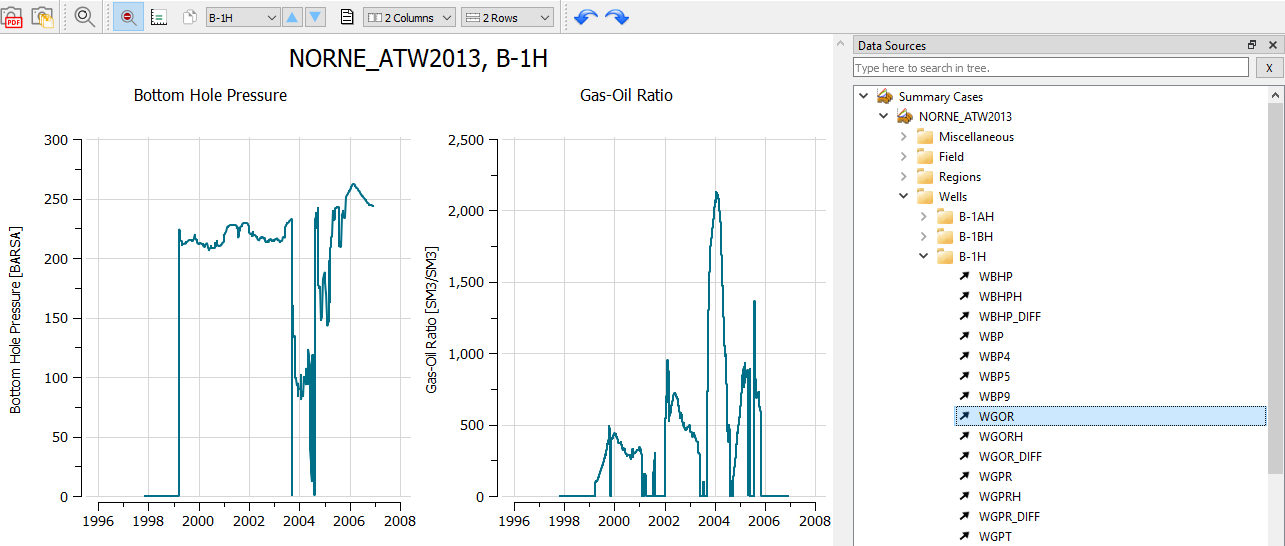
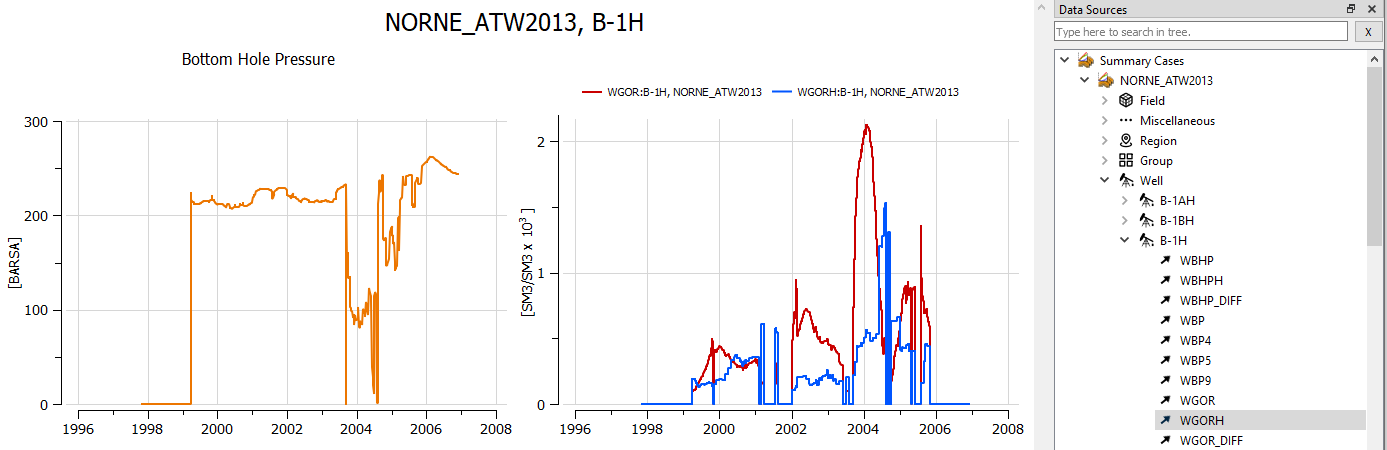
Summary Plots: update of screenshots etc

diff --git a/content/plot-window/SummaryPlots.md b/content/plot-window/SummaryPlots.md
@@ -18,13 +18,16 @@ Summary plots are displayed on screen by maximum four rows by four columns of pl
 In the example above, ResInsight displays two columns and two rows of plots, each plot comprising a single curve. However, a plot may contain an arbitrary number of curves.
 As shown in the screenshot above, essential helpers for setup of Summary Plots are:
 
-- *Plots*: overview of established plots and their components
-- [*Data Sources*]({{< relref "summaryplotdatasources" >}}):
+- **Plots**: overview of established plots and their components
+- **Property Editor**: settings for titles, legends, layout, axes, and appearance
+- [**Data Sources**]({{< relref "summaryplotdatasources" >}}):
 searching and sourcing data from case, field, regions, wells, groups, or ensemble
-- [*Plot Manager*]({{< relref "summaryplotmanager" >}}):
+- [**Templates**]({{< relref "summaryplottemplate" >}}):
+overview, management and use of templates for summary plotting
+- [**Plot Manager**]({{< relref "summaryplotmanager" >}}):
 powerful text-based selection of vectors for summary plotting
-- *Property Editor*: settings for titles, legends, layout, axes etc
 
+Essential actions are presented as controls in the toolbar to increase productivity and ease of use.
 
 
 ## Creating Summary Plots
@@ -36,7 +39,9 @@ Having imported [Eclipse Summary Data]({{< relref "eclipsesummarydata" >}}), [**
 - *Right-click* selected vector(s) and select **New Summary Plot** 
 - *Drag & Drop* additional vector(s) to append curves into an existing plot or vacant plot area
 
-Creating a new summary plot of *WBHP* of *Well B-1H* and subsequent *Drag & Drop* of WGOR produces the following. 
+Creating a new summary plot of *WBHP* of *Well B-1H* and subsequent *Drag & Drop* of WGOR and WGORH into the same subplot produces the following. 
+ResInsight will automatically make new axes if necessary. If units are the same as for WGOR and WGORH, a new axis is unneccessary.
+
 
 ![]({{< relref "" >}}images/plot-window/SummaryPlots_WBHP_WGOR.png)
 
@@ -58,7 +63,7 @@ Using [**Data Sources**]({{< relref "summaryplotdatasources" >}}) enables effici
 
 ![]({{< relref "" >}}images/plot-window/SummaryPlotsAppendVectorsForWells.png)
 
-If a plot contains curves pertinent to a single data source, you may easily append corresponding plots for other entries of the type by right-clicking or Drag&Drop. In the examples above, the curves are pertinent to the single data source well B-1H. Thus you may easily append corresponding plots for other wells by right-clicking as shown below or Drag&Drop of other wells.
+If a plot contains curves pertinent to a single data source, you may easily append corresponding plots for other entries of the type by right-clicking or Drag&Drop. In the examples above, the curves are pertinent to the single data source well B-1H. Thus you may easily append corresponding plots for other wells by right-clicking as shown below or using Drag&Drop.
 
 ![]({{< relref "" >}}images/plot-window/SummaryPlotsAppendPlotsForWells.png)
 

diff --git a/content/plot-window/_index.md b/content/plot-window/_index.md
@@ -8,12 +8,14 @@ weight = 30
 
 The **Plot Main Window** is the main window of ResInsight for 2D graphing and plotting as shown above surrounded by the following docking windows:
 
-- *Plots*: overview of the various types of plots and their components
-- [*Data Sources*]({{< relref "summaryplotdatasources" >}}):
+- **Plots**: overview of the various types of plots and their components
+- **Property Editor**: settings for titles, legends, layout, axes, and appearance
+- [**Data Sources**]({{< relref "summaryplotdatasources" >}}):
 searching and sourcing data from case, field, regions, wells, groups, or ensemble
-- [*Plot Manager*]({{< relref "summaryplotmanager" >}}):
+- [**Templates**]({{< relref "summaryplottemplate" >}}):
+overview, management and use of templates for summary plotting
+- [**Plot Manager**]({{< relref "summaryplotmanager" >}}):
 powerful text-based selection of vectors for summary plotting
-- *Property Editor*: settings for titles, legends, layout, axes etc
 
 Essential actions are presented as controls in the toolbar for ease of use. 
 The following subchapters describe the capabilities, functionality, graphs, and plots in more detail. 
